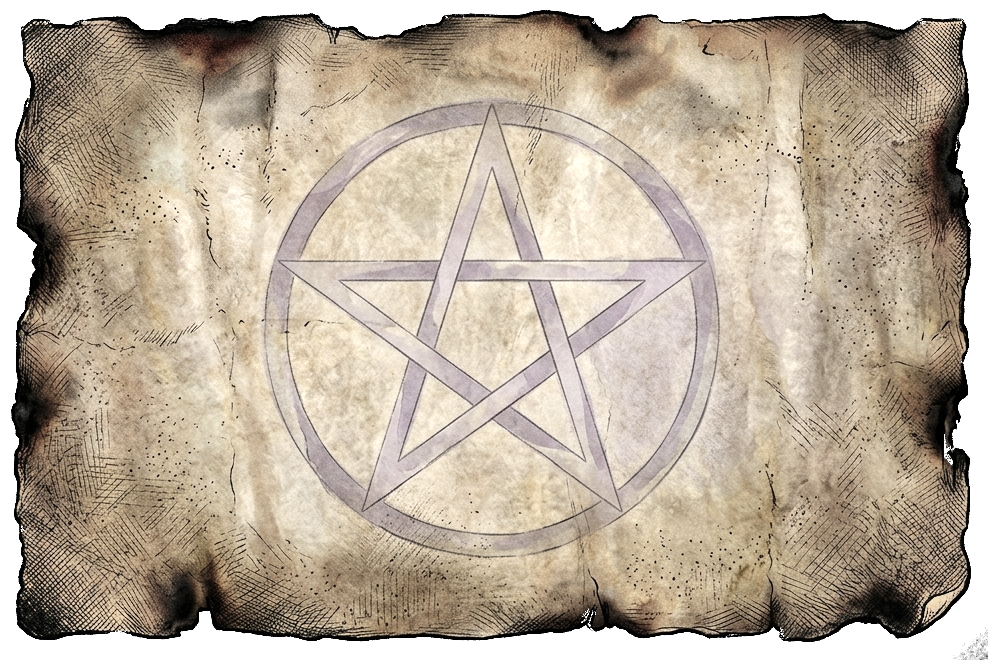
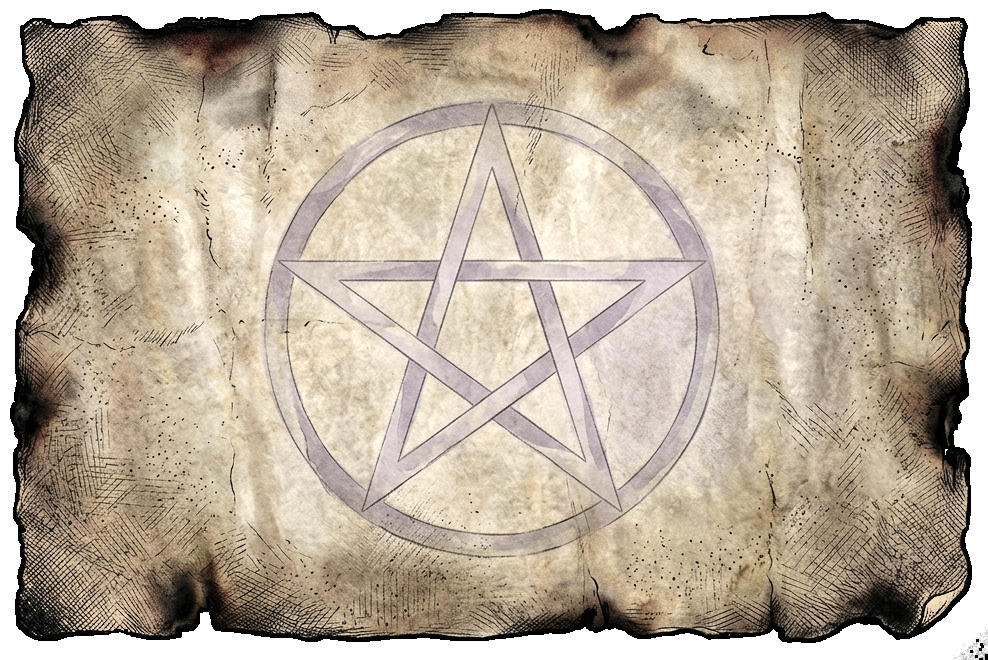
feat: CRT scoring board, games tile backdrop, and shaped tile shadows
Scoring countdown board redesigned as a monochrome green-phosphor CRT
readout: VT323 terminal font, phosphor-green text with glow, dark row
panels removed, prediction ranges printed below each metric with a
glowing frame when in range, and a "RESULTS IN" countdown label. Row
width and fonts now scale with the board (vw/em) so the readout fills
large displays instead of bunching in the centre.

Games rolodex: stone backdrop image centered behind the tiles with
left/right fade, and rectangular tile box-shadows replaced with a
shaped drop-shadow that follows the parchment silhouette.

diff --git a/components/scoring-countdown-panel.tsx b/components/scoring-countdown-panel.tsx
@@ -68,16 +68,6 @@ function formatReview(pct: number | null): string {
   return String(Math.round(pct)).padStart(3) + "%"
 }
 
-// Renders each character in str in a fixed-width inline-block cell so
-// all characters occupy stable horizontal positions regardless of content.
-function fixedChars(str: string, color: string, w = 12, ns = "") {
-  return Array.from(str).map((ch, i) => (
-    <span key={`${ns}${i}`} style={{ display: "inline-block", width: w, textAlign: "center", color }}>
-      {ch}
-    </span>
-  ))
-}
-
 function trendIcon(trend: "up" | "down" | "flat" | null): string {
   return trend === "down" ? "▼" : "▲"
 }
@@ -104,11 +94,28 @@ const BOARD_WIDTH = "calc(42vw * 1.19)"
 // Base CSS transform (centering) shared by board and goblin
 const BOARD_BASE_TRANSFORM = "translate(calc(-50% - 5px), calc(-50% + 75px))"
 
+// Ticker row width as a fraction of the viewport (vw) so it scales with the
+// board (also vw-based) — the row stays a constant fraction of the board at
+// every resolution, fixing the "bunched in the centre on large displays" issue.
+// NOTE: vw is in CSS pixels, which are affected by OS/browser display scaling,
+// so this won't equal a fixed physical px width. It's the single knob for the
+// row's width — tune it visually; whatever looks right at one resolution holds
+// at all of them because it's proportional to the board (~49.98vw wide).
+const ROW_WIDTH_VW = 36
+
+// Base readout font size, in vw, derived from the row width so text scales with
+// the board and keeps the original 14px-at-466px text-to-row ratio. All desktop
+// readout sizes/spacing are expressed in em off this base, so tuning ROW_WIDTH_VW
+// (or this ratio) rescales the whole readout proportionally.
+const FONT_BASE_VW = ROW_WIDTH_VW * (14 / 466)
+
 function makeBoardPositions(vwOffset: number) {
   const base = 25 + vwOffset
   return {
     boardLeft:   `${base}vw`,
-    rowLeft:     vwOffset === 0 ? "50px" : `calc(${vwOffset}vw + 50px)`,
+    // Center the rows on the board's center (boardLeft - 5px) by offsetting half
+    // the row width instead of translateX, so we don't clobber the boardShake transform.
+    rowLeft:     `calc(${base - ROW_WIDTH_VW / 2}vw - 5px)`,
     hoverLeft:   vwOffset === 0 ? "-5px" : `calc(${vwOffset}vw - 5px)`,
     goblinLeft:  `calc(${base}vw + 35px)`,
     spawnPoints: [
@@ -180,16 +187,53 @@ const ROW_TOPS = [
   "calc(64px + 21vh + 2px)",
 ]
 
+// CRT phosphor-screen readout styling
+const CRT_FONT  = "var(--font-crt), 'VT323', monospace"
+const CRT_GREEN = "#7dff9b"                        // light phosphor green
+const CRT_DIM   = "rgba(125,255,155,0.35)"         // dim green for separators
+const CRT_GLOW  = "0 0 6px rgba(125,255,155,0.55)" // phosphor bloom
+
 const ROW_PANEL_STYLE: React.CSSProperties = {
-  backdropFilter: "blur(10px)",
-  WebkitBackdropFilter: "blur(10px)",
-  background: "rgba(0,0,0,0.58)",
-  borderRadius: 6,
-  padding: "5px 14px",
   display: "flex",
   alignItems: "center",
-  gap: "14px",
-  width: "466px",
+  gap: "1em",
+  width: `${ROW_WIDTH_VW}vw`,
+  fontSize: `${FONT_BASE_VW}vw`,
+  fontFamily: CRT_FONT,
+  textShadow: CRT_GLOW,
+}
+
+// Compact range value formatter (no zero-padding) — e.g. 12.5K, 1.20M, 87
+function fmtRangeNum(n: number): string {
+  if (n >= 1_000_000) return (n / 1_000_000).toFixed(2) + "M"
+  if (n >= 1000) return (n / 1000).toFixed(1) + "K"
+  return String(Math.round(n))
+}
+
+function playersRangeStr(g: CountdownGame): string | null {
+  if (g.players_window_low == null || g.players_window_high == null) return null
+  return `${fmtRangeNum(g.players_window_low)}–${fmtRangeNum(g.players_window_high)}`
+}
+
+function reviewsRangeStr(g: CountdownGame): string | null {
+  if (g.reviews_window_low == null || g.reviews_window_high == null) return null
+  return `${Math.round(g.reviews_window_low)}–${Math.round(g.reviews_window_high)}%`
+}
+
+// Green glowing frame drawn around a metric when it lands inside its range.
+// The transparent-bordered variant keeps identical box metrics so the number
+// doesn't shift when the frame toggles on/off.
+const FRAMED_NUM: React.CSSProperties = {
+  color: CRT_GREEN,
+  border: `1px solid ${CRT_GREEN}`,
+  borderRadius: "0.21em",
+  padding: "0 0.29em",
+  boxShadow: "0 0 6px rgba(125,255,155,0.45), inset 0 0 5px rgba(125,255,155,0.22)",
+}
+const UNFRAMED_NUM: React.CSSProperties = {
+  color: CRT_GREEN,
+  border: "1px solid transparent",
+  padding: "0 0.29em",
 }
 
 function ScoringCountdownPanelBase({
@@ -404,15 +448,15 @@ function ScoringCountdownPanelBase({
           />
           <div style={{
             position: "absolute",
-            top: "22%",
+            top: "5%",
             left: "8%",
             right: "8%",
             display: "flex",
             flexDirection: "column",
-            gap: 5,
+            gap: 8,
           }}>
             {active.length === 0 ? (
-              <div style={{ textAlign: "center", color: "rgba(255,255,255,0.4)", fontSize: 11, fontFamily: "Cinzel, serif" }}>
+              <div style={{ textAlign: "center", color: CRT_DIM, fontSize: 14, fontFamily: CRT_FONT, textShadow: CRT_GLOW }}>
                 No pending scores
               </div>
             ) : active.slice(0, 3).map((game, i) => {
@@ -422,27 +466,42 @@ function ScoringCountdownPanelBase({
                   display: "flex",
                   alignItems: "center",
                   gap: 5,
-                  background: "rgba(0,0,0,0.52)",
-                  backdropFilter: "blur(6px)",
-                  WebkitBackdropFilter: "blur(6px)",
-                  borderRadius: 4,
-                  padding: "3px 7px",
+                  padding: "1px 7px",
+                  fontFamily: CRT_FONT,
+                  textShadow: CRT_GLOW,
                 }}>
-                  <span className="font-display tabular-nums" style={{ color: "#f59e0b", fontSize: 10, letterSpacing: 0 }}>
+                  <span className="tabular-nums" style={{ color: CRT_GREEN, fontSize: 13, letterSpacing: 0, marginLeft: 24 }}>
                     {game.ticker.slice(0, 4).padEnd(4)}
                   </span>
-                  <span style={{ color: "rgba(255,255,255,0.2)", fontSize: 9 }}>|</span>
-                  <span style={{ color: trendColor(game.player_trend), fontSize: 9 }}>{trendIcon(game.player_trend)}</span>
-                  <span className="font-display tabular-nums" style={{ color: inPlayersRange(game) ? "#34d399" : playersExceededRange(game) ? "#f87171" : "rgba(255,255,255,0.82)", fontSize: 10, letterSpacing: 0 }}>
-                    {formatPeak(game.peak_players)}
+                  <span style={{ color: CRT_DIM, fontSize: 11 }}>|</span>
+                  <span style={{ color: trendColor(game.player_trend), fontSize: 10 }}>{trendIcon(game.player_trend)}</span>
+                  <span style={{ position: "relative", display: "inline-block" }}>
+                    <span className="tabular-nums" style={{ ...(inPlayersRange(game) ? FRAMED_NUM : UNFRAMED_NUM), fontSize: 13, letterSpacing: 0 }}>
+                      {formatPeak(game.peak_players)}
+                    </span>
+                    {playersRangeStr(game) && (
+                      <span style={{ position: "absolute", top: "100%", left: "50%", transform: "translateX(-50%)", marginTop: -3, fontSize: 10, color: CRT_DIM, whiteSpace: "nowrap" }}>
+                        {playersRangeStr(game)}
+                      </span>
+                    )}
                   </span>
-                  <span style={{ color: "rgba(255,255,255,0.2)", fontSize: 9 }}>|</span>
-                  <span style={{ color: trendColor(game.review_trend), fontSize: 9 }}>{trendIcon(game.review_trend)}</span>
-                  <span className="font-display tabular-nums" style={{ color: inReviewsRange(game) ? "#34d399" : "rgba(255,255,255,0.82)", fontSize: 10, letterSpacing: 0 }}>
-                    {formatReview(game.latest_review_pct)}
+                  <span style={{ color: CRT_DIM, fontSize: 11 }}>|</span>
+                  <span style={{ color: trendColor(game.review_trend), fontSize: 10 }}>{trendIcon(game.review_trend)}</span>
+                  <span style={{ position: "relative", display: "inline-block" }}>
+                    <span className="tabular-nums" style={{ ...(inReviewsRange(game) ? FRAMED_NUM : UNFRAMED_NUM), fontSize: 13, letterSpacing: 0 }}>
+                      {formatReview(game.latest_review_pct)}
+                    </span>
+                    {reviewsRangeStr(game) && (
+                      <span style={{ position: "absolute", top: "100%", left: "50%", transform: "translateX(-50%)", marginTop: -3, fontSize: 10, color: CRT_DIM, whiteSpace: "nowrap" }}>
+                        {reviewsRangeStr(game)}
+                      </span>
+                    )}
                   </span>
-                  <span className="font-display tabular-nums text-cyan-300" style={{ fontSize: 10, marginLeft: "auto", letterSpacing: 0 }}>
-                    {ms != null ? formatCountdown(ms) : "——:——:——:——"}
+                  <span style={{ position: "relative", marginLeft: "auto", marginRight: 24, display: "inline-block" }}>
+                    <span style={{ position: "relative", top: 3, fontSize: 8, color: CRT_DIM, letterSpacing: 1, whiteSpace: "nowrap" }}>RESULTS IN</span>
+                    <span className="tabular-nums" style={{ position: "absolute", top: "100%", right: 0, marginTop: -4, color: CRT_GREEN, fontSize: 13, letterSpacing: 0, whiteSpace: "nowrap" }}>
+                      {ms != null ? formatCountdown(ms) : "——:——:——:——"}
+                    </span>
                   </span>
                 </div>
               )
@@ -583,27 +642,49 @@ function ScoringCountdownPanelBase({
             }}
           >
             <div style={ROW_PANEL_STYLE}>
-              <span className="font-display text-sm tabular-nums" style={{ letterSpacing: 0 }}>
-                {fixedChars(game.ticker.slice(0, 4).padEnd(4), "#f59e0b", 14, "tk")}
-                {fixedChars(" | ", "rgba(255,255,255,0.2)", 12, "s1")}
-                <span style={{ display: "inline-block", width: 16, textAlign: "center", color: trendColor(game.player_trend), position: "relative", left: "-10px" }}>{trendIcon(game.player_trend)}</span>
-                {fixedChars(formatPeak(game.peak_players), inPlayersRange(game) ? "#34d399" : playersExceededRange(game) ? "#f87171" : "rgba(255,255,255,0.85)", 12, "pk")}
-                <span style={{ display: "inline-block", width: 15 }} />
-                {fixedChars(trendIcon(game.review_trend), trendColor(game.review_trend), 16, "rt")}
-                {fixedChars(formatReview(game.latest_review_pct), inReviewsRange(game) ? "#34d399" : "rgba(255,255,255,0.85)", 12, "rv")}
+              <span className="tabular-nums" style={{ letterSpacing: 0, display: "flex", alignItems: "center", gap: "0.43em" }}>
+                {/* ticker */}
+                <span style={{ color: CRT_GREEN }}>{game.ticker.slice(0, 4).padEnd(4)}</span>
+                <span style={{ color: CRT_DIM }}>|</span>
+
+                {/* players peak + range */}
+                <span style={{ display: "inline-block", width: "1.14em", textAlign: "center", color: trendColor(game.player_trend) }}>{trendIcon(game.player_trend)}</span>
+                <span style={{ position: "relative", display: "inline-block" }}>
+                  <span style={inPlayersRange(game) ? FRAMED_NUM : UNFRAMED_NUM}>{formatPeak(game.peak_players)}</span>
+                  {playersRangeStr(game) && (
+                    <span style={{ position: "absolute", top: "100%", left: "50%", transform: "translateX(-50%)", marginTop: "0.14em", fontSize: "0.857em", color: CRT_DIM, whiteSpace: "nowrap" }}>
+                      {playersRangeStr(game)}
+                    </span>
+                  )}
+                </span>
+
+                <span style={{ display: "inline-block", width: "0.57em" }} />
+
+                {/* reviews pct + range */}
+                <span style={{ display: "inline-block", width: "1.14em", textAlign: "center", color: trendColor(game.review_trend) }}>{trendIcon(game.review_trend)}</span>
+                <span style={{ position: "relative", display: "inline-block" }}>
+                  <span style={inReviewsRange(game) ? FRAMED_NUM : UNFRAMED_NUM}>{formatReview(game.latest_review_pct)}</span>
+                  {reviewsRangeStr(game) && (
+                    <span style={{ position: "absolute", top: "100%", left: "50%", transform: "translateX(-50%)", marginTop: "0.14em", fontSize: "0.857em", color: CRT_DIM, whiteSpace: "nowrap" }}>
+                      {reviewsRangeStr(game)}
+                    </span>
+                  )}
+                </span>
               </span>
-              <span style={{ color: "rgba(255,255,255,0.15)", letterSpacing: 0 }}>|</span>
-              <span className="font-display text-sm text-cyan-300 tabular-nums" style={{ letterSpacing: 0, marginLeft: "auto" }}>
-                {Array.from(ms != null ? formatCountdown(ms) : "DD:HH:MM:SS").map((ch, i) => (
-                  <span key={i} style={{
-                    display: "inline-block",
-                    width: ch === ":" ? 10 : 13,
-                    textAlign: "center",
-                    opacity: ch === ":" ? 0.55 : 1,
-                  }}>
-                    {ch}
-                  </span>
-                ))}
+              <span style={{ position: "relative", marginLeft: "auto", display: "inline-block" }}>
+                <span style={{ fontSize: "0.786em", color: CRT_DIM, letterSpacing: "0.1em", whiteSpace: "nowrap" }}>RESULTS IN</span>
+                <span className="tabular-nums" style={{ position: "absolute", top: "100%", right: 0, marginTop: "-0.07em", letterSpacing: 0, color: CRT_GREEN, whiteSpace: "nowrap" }}>
+                  {Array.from(ms != null ? formatCountdown(ms) : "DD:HH:MM:SS").map((ch, i) => (
+                    <span key={i} style={{
+                      display: "inline-block",
+                      width: ch === ":" ? "0.71em" : "0.93em",
+                      textAlign: "center",
+                      opacity: ch === ":" ? 0.55 : 1,
+                    }}>
+                      {ch}
+                    </span>
+                  ))}
+                </span>
               </span>
             </div>
           </div>

diff --git a/components/games-rolodex.tsx b/components/games-rolodex.tsx
@@ -150,6 +150,26 @@ export function GamesRolodex({ games, predMap, currentSeasonId, onSelect, isPane
         style={{ position: "fixed", inset: 0, zIndex: 34, pointerEvents: expandedId ? "auto" : "none" }}
         onClick={() => setExpandedId(null)}
       />
+      {/* Stone backdrop — the base the tiles are laid against */}
+      {/* eslint-disable-next-line @next/next/no-img-element */}
+      <img
+        src="/gametile-backdrop.png"
+        alt=""
+        aria-hidden="true"
+        draggable={false}
+        style={{
+          position: "fixed",
+          bottom: "15px",
+          left: "50%",
+          transform: "translateX(-50%)",
+          width: `${VIEW_VW}vw`,
+          height: "auto",
+          zIndex: 33,
+          pointerEvents: "none",
+          WebkitMaskImage: "linear-gradient(to right, transparent 0%, black 12%, black 88%, transparent 100%)",
+          maskImage: "linear-gradient(to right, transparent 0%, black 12%, black 88%, transparent 100%)",
+        }}
+      />
       {/* Left buttons — anchored to the left margin, stacked vertically */}
       <div style={{ position: "fixed", left: "16px", bottom: "20px", height: "80vh", display: "flex", flexDirection: "column", justifyContent: "flex-end", paddingBottom: "calc(5vh - 40px)", gap: "0px", zIndex: 36, pointerEvents: "auto" }}>
         {navBtn(() => moveBy(-1),        atStart, "left.png",        "Back one tile")}
@@ -217,6 +237,13 @@ export function GamesRolodex({ games, predMap, currentSeasonId, onSelect, isPane
           const scaleFactor = isExp ? CARD_EXP_VW / CARD_VW : isHov ? CARD_HOV_VW / CARD_VW : 1
           const riseY = isExp ? -RISE_VH : 0
 
+          // Shaped shadow that follows the parchment's torn silhouette
+          const dropShadow = isExp
+            ? "drop-shadow(0 12px 16px rgba(0,0,0,0.6)) drop-shadow(0 5px 8px rgba(0,0,0,0.45))"
+            : isHov
+            ? "drop-shadow(0 8px 12px rgba(0,0,0,0.55)) drop-shadow(0 4px 6px rgba(0,0,0,0.42))"
+            : "drop-shadow(0 5px 9px rgba(0,0,0,0.5)) drop-shadow(0 2px 4px rgba(0,0,0,0.38))"
+
           return (
             <div
               key={game.id}
@@ -226,9 +253,9 @@ export function GamesRolodex({ games, predMap, currentSeasonId, onSelect, isPane
                 bottom: 0,
                 zIndex: isExp ? 100 : isHov ? 50 : N - i,
                 transform: `translateX(${spreadX}vw) translateY(${riseY}vh)`,
-                transition: "transform 0.32s ease",
+                transition: "transform 0.32s ease, filter 0.32s ease",
                 pointerEvents: isPanelOpen ? "none" : "auto",
-                filter: isPanelOpen ? "grayscale(1) blur(2px)" : isInactive ? "grayscale(1)" : "none",
+                filter: isPanelOpen ? "grayscale(1) blur(2px)" : isInactive ? `grayscale(1) ${dropShadow}` : dropShadow,
               }}
             >
               <div
@@ -254,12 +281,7 @@ export function GamesRolodex({ games, predMap, currentSeasonId, onSelect, isPane
                     width: `${CARD_VW}vw`,
                     transform: `scale(${scaleFactor})`,
                     transformOrigin: "center bottom",
-                    transition: "transform 0.32s ease, box-shadow 0.32s ease, filter 0.3s ease",
-                    boxShadow: isExp
-                      ? "0 24px 56px rgba(0,0,0,0.95), 0 0 20px rgba(196,168,130,0.10)"
-                      : isHov
-                      ? "0 16px 40px rgba(0,0,0,0.90)"
-                      : "0 8px 24px rgba(0,0,0,0.80)",
+                    transition: "transform 0.32s ease, filter 0.3s ease",
                     cursor: isInactive ? "default" : "pointer",
                     overflow: "hidden",
                     WebkitMaskImage: "linear-gradient(to right, transparent 0%, black 2%, black 98%, transparent 100%)",

diff --git a/app/layout.tsx b/app/layout.tsx
@@ -1,5 +1,5 @@
 import type { Metadata } from 'next'
-import { Cinzel, IM_Fell_English, Special_Elite } from 'next/font/google'
+import { Cinzel, IM_Fell_English, Special_Elite, VT323 } from 'next/font/google'
 import { Analytics } from '@vercel/analytics/next'
 import { ParallaxBackground } from '@/components/parallax-background'
 import './globals.css'
@@ -16,6 +16,14 @@ const specialElite = Special_Elite({
   weight: '400',
   subsets: ['latin'],
   variable: '--font-typewriter',
+  display: 'swap',
+})
+
+// CRT / phosphor-terminal font — scoring countdown board readout
+const vt323 = VT323({
+  weight: '400',
+  subsets: ['latin'],
+  variable: '--font-crt',
   display: 'swap',
 })
 
@@ -46,7 +54,7 @@ export default function RootLayout({
   children,
 }: Readonly<{ children: React.ReactNode }>) {
   return (
-    <html lang="en" className={`${cinzel.variable} ${imFellEnglish.variable} ${specialElite.variable}`}>
+    <html lang="en" className={`${cinzel.variable} ${imFellEnglish.variable} ${specialElite.variable} ${vt323.variable}`}>
       <body className="font-body antialiased pb-10 overflow-x-hidden">
         <ParallaxBackground />
         {children}

diff --git a/app/globals.css b/app/globals.css
@@ -59,6 +59,7 @@ html {
   --font-display: var(--font-display), 'Cinzel', serif;
   --font-body: var(--font-body), 'IM Fell English', serif;
   --font-typewriter: var(--font-typewriter), 'Special Elite', serif;
+  --font-crt: var(--font-crt), 'VT323', monospace;
   --color-background: var(--background);
   --color-foreground: var(--foreground);
   --color-card: var(--card);
